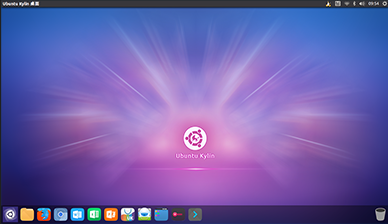
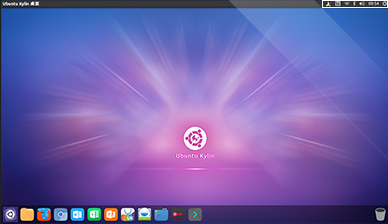
Used cairo to draw spotlight; hind arrow at some page; adjusted label hight

Changed region(s): [[0.5876, 0.0, 1.0, 0.1562]]

diff --git a/draw.cpp b/draw.cpp
@@ -27,6 +27,7 @@
 #include <gdk/gdk.h>
 #include <gdk/gdkkeysyms.h>
 #include <pango/pango.h>
+#include <math.h>
 
 //void clip_rec(cairo_t *cr, int x, int y, int width, int height)
 //{
@@ -193,13 +194,13 @@ Draw::Draw()
   gtk_fixed_move(GTK_FIXED(fixed_), grid_, style_->get_title1_pos().x, style_->get_title1_pos().y);
 
   title1_ = WID(builder_, WIDGET, "title1");
-  gtk_label_set_text(GTK_LABEL(title1_), "如何快速启动应用程序");
+  gtk_label_set_text(GTK_LABEL(title1_), "快速启动应用程序");
 
   title2_ = WID(builder_, WIDGET, "title2");
-  gtk_label_set_text(GTK_LABEL(title2_), "Launcher");
+  gtk_label_set_text(GTK_LABEL(title2_), "启动器");
 
   details_ = WID(builder_, WIDGET, "details");
-  gtk_label_set_text(GTK_LABEL(details_), "Ubuntu特有的快速启动面板，可以方便快捷的打开和切换各种应用。同时可以根据使用习惯自由定制Launcher面板上的应用。");
+  gtk_label_set_text(GTK_LABEL(details_), "可以方便快捷的打开和切换各种应用，同时可以根据使用习惯添加、移除启动器上的应用。");
   gtk_widget_set_size_request(details_, 0.8 * (style_->get_right_arrow_pos().x - style_->get_spot_pos().x), -1);
   gtk_label_set_line_wrap(GTK_LABEL(details_), TRUE);
 
@@ -209,6 +210,8 @@ Draw::Draw()
   gtk_widget_override_font(title2_, fd_2);
   PangoFontDescription *fd_3 = pango_font_description_from_string("Ubuntu 16");
   gtk_widget_override_font(details_, fd_3);
+
+  gtk_widget_set_size_request(title2_, -1, 50);
 
   GdkColor color;
   gdk_color_parse("white", &color);
@@ -220,6 +223,7 @@ Draw::Draw()
   arrow_left_img_ = WID(builder_, WIDGET, "arrow_left_img");
   gtk_image_set_from_file(GTK_IMAGE(arrow_left_img_), PKGDATADIR"/arrow_left.png");
   gtk_fixed_move(GTK_FIXED(fixed_), left_box_, style_->get_left_arrow_pos().x, style_->get_left_arrow_pos().y);
+  gtk_widget_hide(left_box_);
 
   right_box_ = WID(builder_, WIDGET, "right_box");
   arrow_right_img_ = WID(builder_, WIDGET, "arrow_right_img");
@@ -234,13 +238,6 @@ Draw::Draw()
   page_ind_ = WID(builder_, WIDGET, "page_ind");
   gtk_image_set_from_file(GTK_IMAGE(page_ind_), PKGDATADIR"/step_1.png");
   gtk_fixed_move(GTK_FIXED(fixed_), page_ind_, style_->get_page_ind_pos().x, style_->get_page_ind_pos().y);
-
-  lightspot1_ = WID(builder_, WIDGET, "lightspot1");
-  gtk_image_set_from_file(GTK_IMAGE(lightspot1_), PKGDATADIR"/lightspot.png");
-  gtk_fixed_move(GTK_FIXED(fixed_), lightspot1_, style_->get_spot_pos().x - 0.5 * LIGHTSPOT_SIZE, style_->get_spot_pos().y - 0.5 * LIGHTSPOT_SIZE);
-
-  lightspot2_ = WID(builder_, WIDGET, "lightspot2");
-  gtk_image_set_from_file(GTK_IMAGE(lightspot2_), PKGDATADIR"/lightspot.png");
 
   gint screen_num = gdk_screen_get_n_monitors(gdk_screen_get_default());
   if (screen_num > 1)
@@ -298,7 +295,7 @@ void Draw::draw_other(gint num)
     GtkWidget *button = gtk_image_new_from_file(PKGDATADIR"/close.png");
     GtkWidget *box = gtk_event_box_new();
     gtk_container_add(GTK_CONTAINER(box), button);
-    g_signal_connect(G_OBJECT(box), "button_press_event", G_CALLBACK(on_close_pressed), NULL);
+    g_signal_connect(G_OBJECT(box), "button_press_event", G_CALLBACK(on_close_pressed), window_);
     g_signal_connect(G_OBJECT(box), "enter_notify_event", G_CALLBACK(enter_close_box), button);
     g_signal_connect(G_OBJECT(box), "leave_notify_event", G_CALLBACK(leave_close_box), button);
     GdkRectangle geo;
@@ -399,25 +396,27 @@ void Draw::draw_page(cairo_t *cr)
   switch (page_num_) {
   case 0:
     draw_polyline(cr);
-    gtk_label_set_text(GTK_LABEL(title1_), "如何快速启动应用程序");
-    gtk_label_set_text(GTK_LABEL(title2_), "Launcher");
-    gtk_label_set_text(GTK_LABEL(details_), "Ubuntu特有的快速启动面板，可以方便快捷的打开和切换各种应用。同时可以根据使用习惯自由定制Launcher面板上的应用。");
+    gtk_label_set_text(GTK_LABEL(title1_), "快速启动应用程序");
+    gtk_label_set_text(GTK_LABEL(title2_), "启动器");
+    gtk_label_set_text(GTK_LABEL(details_), "可以方便快捷的打开和切换各种应用，同时可以根据使用习惯添加、移除启动器上的应用。");
     gtk_image_set_from_file(GTK_IMAGE(page_ind_), PKGDATADIR"/step_1.png");
     gtk_image_set_from_file(GTK_IMAGE(thumbnail_), PKGDATADIR"/thumbnail_1.png");
+    gtk_widget_hide(left_box_);
     break;
  case 1:
     draw_polyline(cr);
     gtk_label_set_text(GTK_LABEL(title1_), "快速的智能搜索");
     gtk_label_set_text(GTK_LABEL(title2_), "Dash");
-    gtk_label_set_text(GTK_LABEL(details_), "点击此处可以打开Dash界面，Dash可以提供强大的快速智能搜索功能，可以方便快捷的搜索并打开本地和网络的各种资源，包括：应用、文件、音乐、视频等。");
+    gtk_label_set_text(GTK_LABEL(details_), "可以提供强大的快速智能搜索功能，点击 Dash 图标可以方便快捷的搜索本地和在线的各种资源，包括：应用、文件、音乐、视频、图片等。");
     gtk_image_set_from_file(GTK_IMAGE(page_ind_), PKGDATADIR"/step_2.png");
     gtk_image_set_from_file(GTK_IMAGE(thumbnail_), PKGDATADIR"/thumbnail_2.png");
+    gtk_widget_show(left_box_);
     break;
   case 2:
     draw_polyline(cr);
-    gtk_label_set_text(GTK_LABEL(title1_), "浏览并管理您的文件");
+    gtk_label_set_text(GTK_LABEL(title1_), "浏览并管理文件");
     gtk_label_set_text(GTK_LABEL(title2_), "文件管理器");
-    gtk_label_set_text(GTK_LABEL(details_), "可以通过此处打开文件管理器，它可以方便的浏览和管理系统中的各种数据。");
+    gtk_label_set_text(GTK_LABEL(details_), "可以浏览和组织电脑上的文件或管理本地存储设备、文件服务器和网络共享上的文件。点击启动器上的图标，可以新建、删除、浏览、复制、移动文件或文件夹。");
     gtk_image_set_from_file(GTK_IMAGE(page_ind_), PKGDATADIR"/step_3.png");
     gtk_image_set_from_file(GTK_IMAGE(thumbnail_), PKGDATADIR"/thumbnail_3.png");
     break;
@@ -425,25 +424,27 @@ void Draw::draw_page(cairo_t *cr)
     draw_polyline(cr);
     gtk_label_set_text(GTK_LABEL(title1_), "查看和修改系统设置");
     gtk_label_set_text(GTK_LABEL(title2_), "优客助手");
-    gtk_label_set_text(GTK_LABEL(details_), "优麒麟为用户打造的系统管理和配置工具，具备强大的系统信息展示、一键垃圾清理和系统定制美化等功能");
+    gtk_label_set_text(GTK_LABEL(details_), "系统管理和配置工具。使用优客助手可以一键清理系统垃圾、系统定制美化以及查看系统信息等。");
     gtk_image_set_from_file(GTK_IMAGE(page_ind_), PKGDATADIR"/step_4.png");
     gtk_image_set_from_file(GTK_IMAGE(thumbnail_), PKGDATADIR"/thumbnail_4.png");
     break;
   case 4:
     draw_polyline(cr);
-    gtk_label_set_text(GTK_LABEL(title1_), "如何合理的管理系统配置");
+    gtk_label_set_text(GTK_LABEL(title1_), "常用工具配置");
     gtk_label_set_text(GTK_LABEL(title2_), "控制面版");
-    gtk_label_set_text(GTK_LABEL(details_), "允许用户查看并操作基本的系统设置。");
+    gtk_label_set_text(GTK_LABEL(details_), "集成了用户常用配置工具。通过控制面板可以设置个人喜好，网络、键盘、鼠标等常用硬件配置以及系统信息等。");
     gtk_image_set_from_file(GTK_IMAGE(page_ind_), PKGDATADIR"/step_5.png");
     gtk_image_set_from_file(GTK_IMAGE(thumbnail_), PKGDATADIR"/thumbnail_5.png");
+    gtk_widget_show(right_box_);
     break;
   case 5:
     draw_polyline(cr);
     gtk_label_set_text(GTK_LABEL(title1_), "查看系统基本状态");
     gtk_label_set_text(GTK_LABEL(title2_), "Indicator");
-    gtk_label_set_text(GTK_LABEL(details_), "可以在此区域方便快捷的查看和配置系统声音、网络、时间和消息等。");
+    gtk_label_set_text(GTK_LABEL(details_), "可以在此区域方便快捷的查看系统声音、网络、时间信息，同时可以查看用户手册，设置锁屏、注销、重启、关闭系统等。");
     gtk_image_set_from_file(GTK_IMAGE(page_ind_), PKGDATADIR"/step_6.png");
     gtk_image_set_from_file(GTK_IMAGE(thumbnail_), PKGDATADIR"/thumbnail_6.png");
+    gtk_widget_hide(right_box_);
     break;
   default:
     break;
@@ -452,17 +453,14 @@ void Draw::draw_page(cairo_t *cr)
 
 void Draw::draw_polyline(cairo_t *cr)
 {
-  cairo_set_source_rgba(cr, 1.0, 1.0, 1.0, 8.0);
+  cairo_set_source_rgba(cr, 1.0, 1.0, 1.0, 0.9);
   cairo_set_line_width(cr, 2);
 
   Point p;
   p.x = style_->icon_pos_[page_num_].x;
   p.y = style_->icon_pos_[page_num_].y;
 
-  gtk_fixed_move(GTK_FIXED(fixed_), lightspot2_,
-                 p.x - 0.5 * LIGHTSPOT_SIZE, p.y - 0.5 * LIGHTSPOT_SIZE);
   cairo_move_to(cr, p.x, p.y);
-
   gint inflexion_y = 0;
   if (page_num_ != PAGES_NUM - 1)
     inflexion_y = style_->get_inflexion_pos().y;
@@ -473,6 +471,24 @@ void Draw::draw_polyline(cairo_t *cr)
   cairo_line_to(cr, style_->get_inflexion_pos().x, inflexion_y);
   cairo_line_to(cr, style_->get_spot_pos().x, style_->get_spot_pos().y);
   cairo_stroke(cr);
+
+  draw_ring(cr, p.x, p.y);
+  draw_ring(cr, style_->get_spot_pos().x, style_->get_spot_pos().y);
+}
+
+void Draw::draw_ring(cairo_t *cr, gint x, gint y)
+{
+  cairo_set_source_rgba(cr, 1., 1., 1., 0.1);
+  cairo_arc(cr, x, y, 10, 0., 2 * M_PI);
+  cairo_fill(cr);
+
+  cairo_set_source_rgba(cr, 1., 1., 1., 0.4);
+  cairo_arc(cr, x, y, 7, 0., 2 * M_PI);
+  cairo_fill(cr);
+
+  cairo_set_source_rgba(cr, 1., 1., 1., 0.9);
+  cairo_arc(cr, x, y, 4, 0., 2 * M_PI);
+  cairo_fill(cr);
 }
 
 gint Draw::page()

diff --git a/draw.h b/draw.h
@@ -44,6 +44,7 @@ public:
   void clip_blur_region(cairo_t *cr);
   void draw_page(cairo_t *cr);
   void draw_polyline(cairo_t *cr);
+  void draw_ring(cairo_t *cr, gint x, gint y);
   gint page();
   void next_page();
   void pre_page();
@@ -71,8 +72,6 @@ private:
   GtkWidget *title1_;
   GtkWidget *title2_;
   GtkWidget *details_;
-  GtkWidget *lightspot1_;
-  GtkWidget *lightspot2_;
 };
 
 #endif

diff --git a/style.cpp b/style.cpp
@@ -214,7 +214,7 @@ Point Style::cal_icon_position(int index)
   }
   else if (index == UNDER_PANEL)
   {
-    icon_pos.x = root_width_ - 15;
+    icon_pos.x = root_width_ - 100;
     icon_pos.y = panel_height_;
   }
   else
